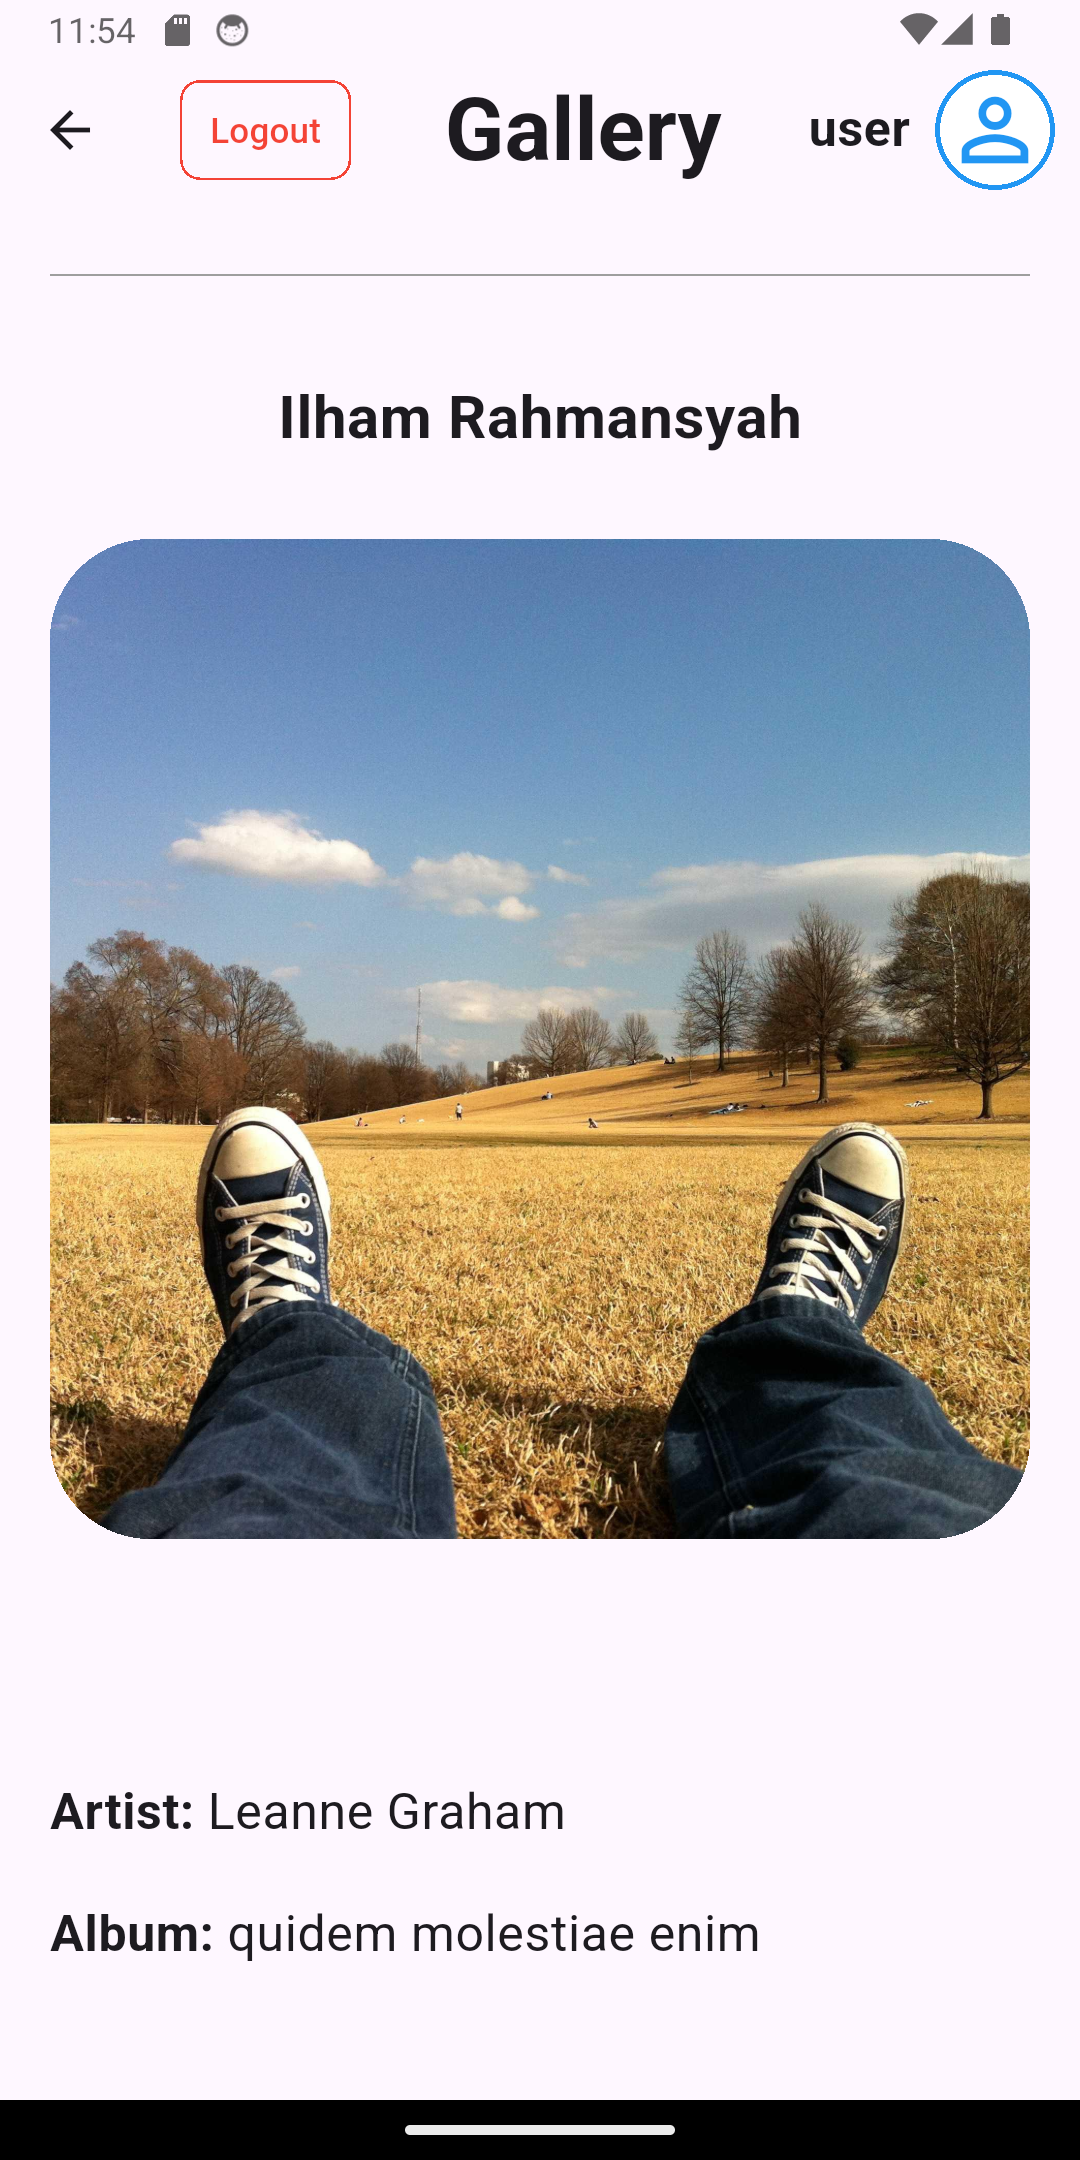
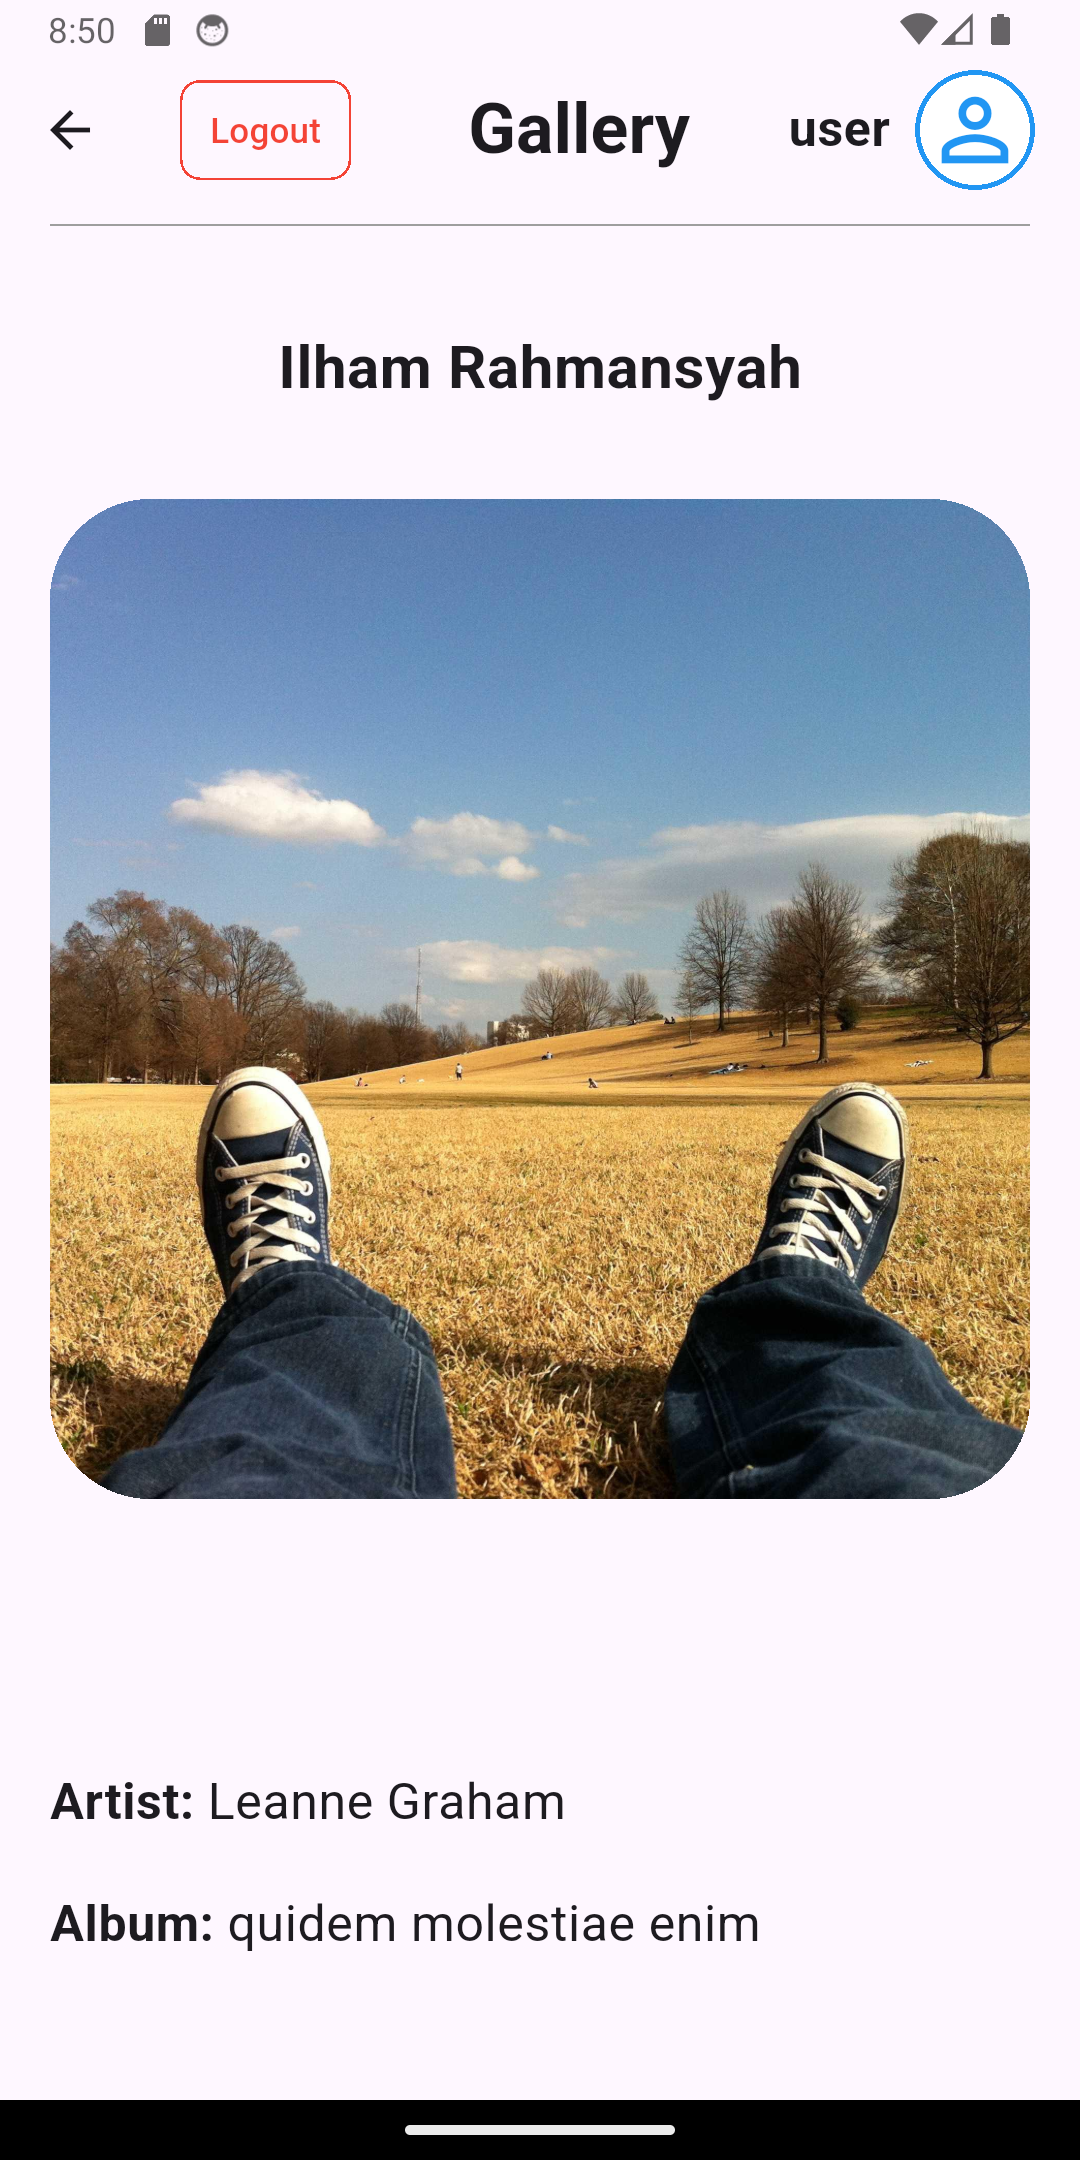
#16 small update in photo_detail_page.dart

diff --git a/client/apps/baby_gallery/lib/pages/photo_details_page.dart b/client/apps/baby_gallery/lib/pages/photo_details_page.dart
@@ -39,7 +39,7 @@ class _PhotoDetailsPageState extends State<PhotoDetailsPage> {
     return Scaffold(
       appBar: CustomAppBarWidget(userName: _name, pageName: "Gallery"),
       body: Padding(
-        padding: const EdgeInsets.all(20.0),
+        padding: const EdgeInsets.fromLTRB(20, 0, 20, 20),
         child: Column(
           crossAxisAlignment: CrossAxisAlignment.center,
           children: [
